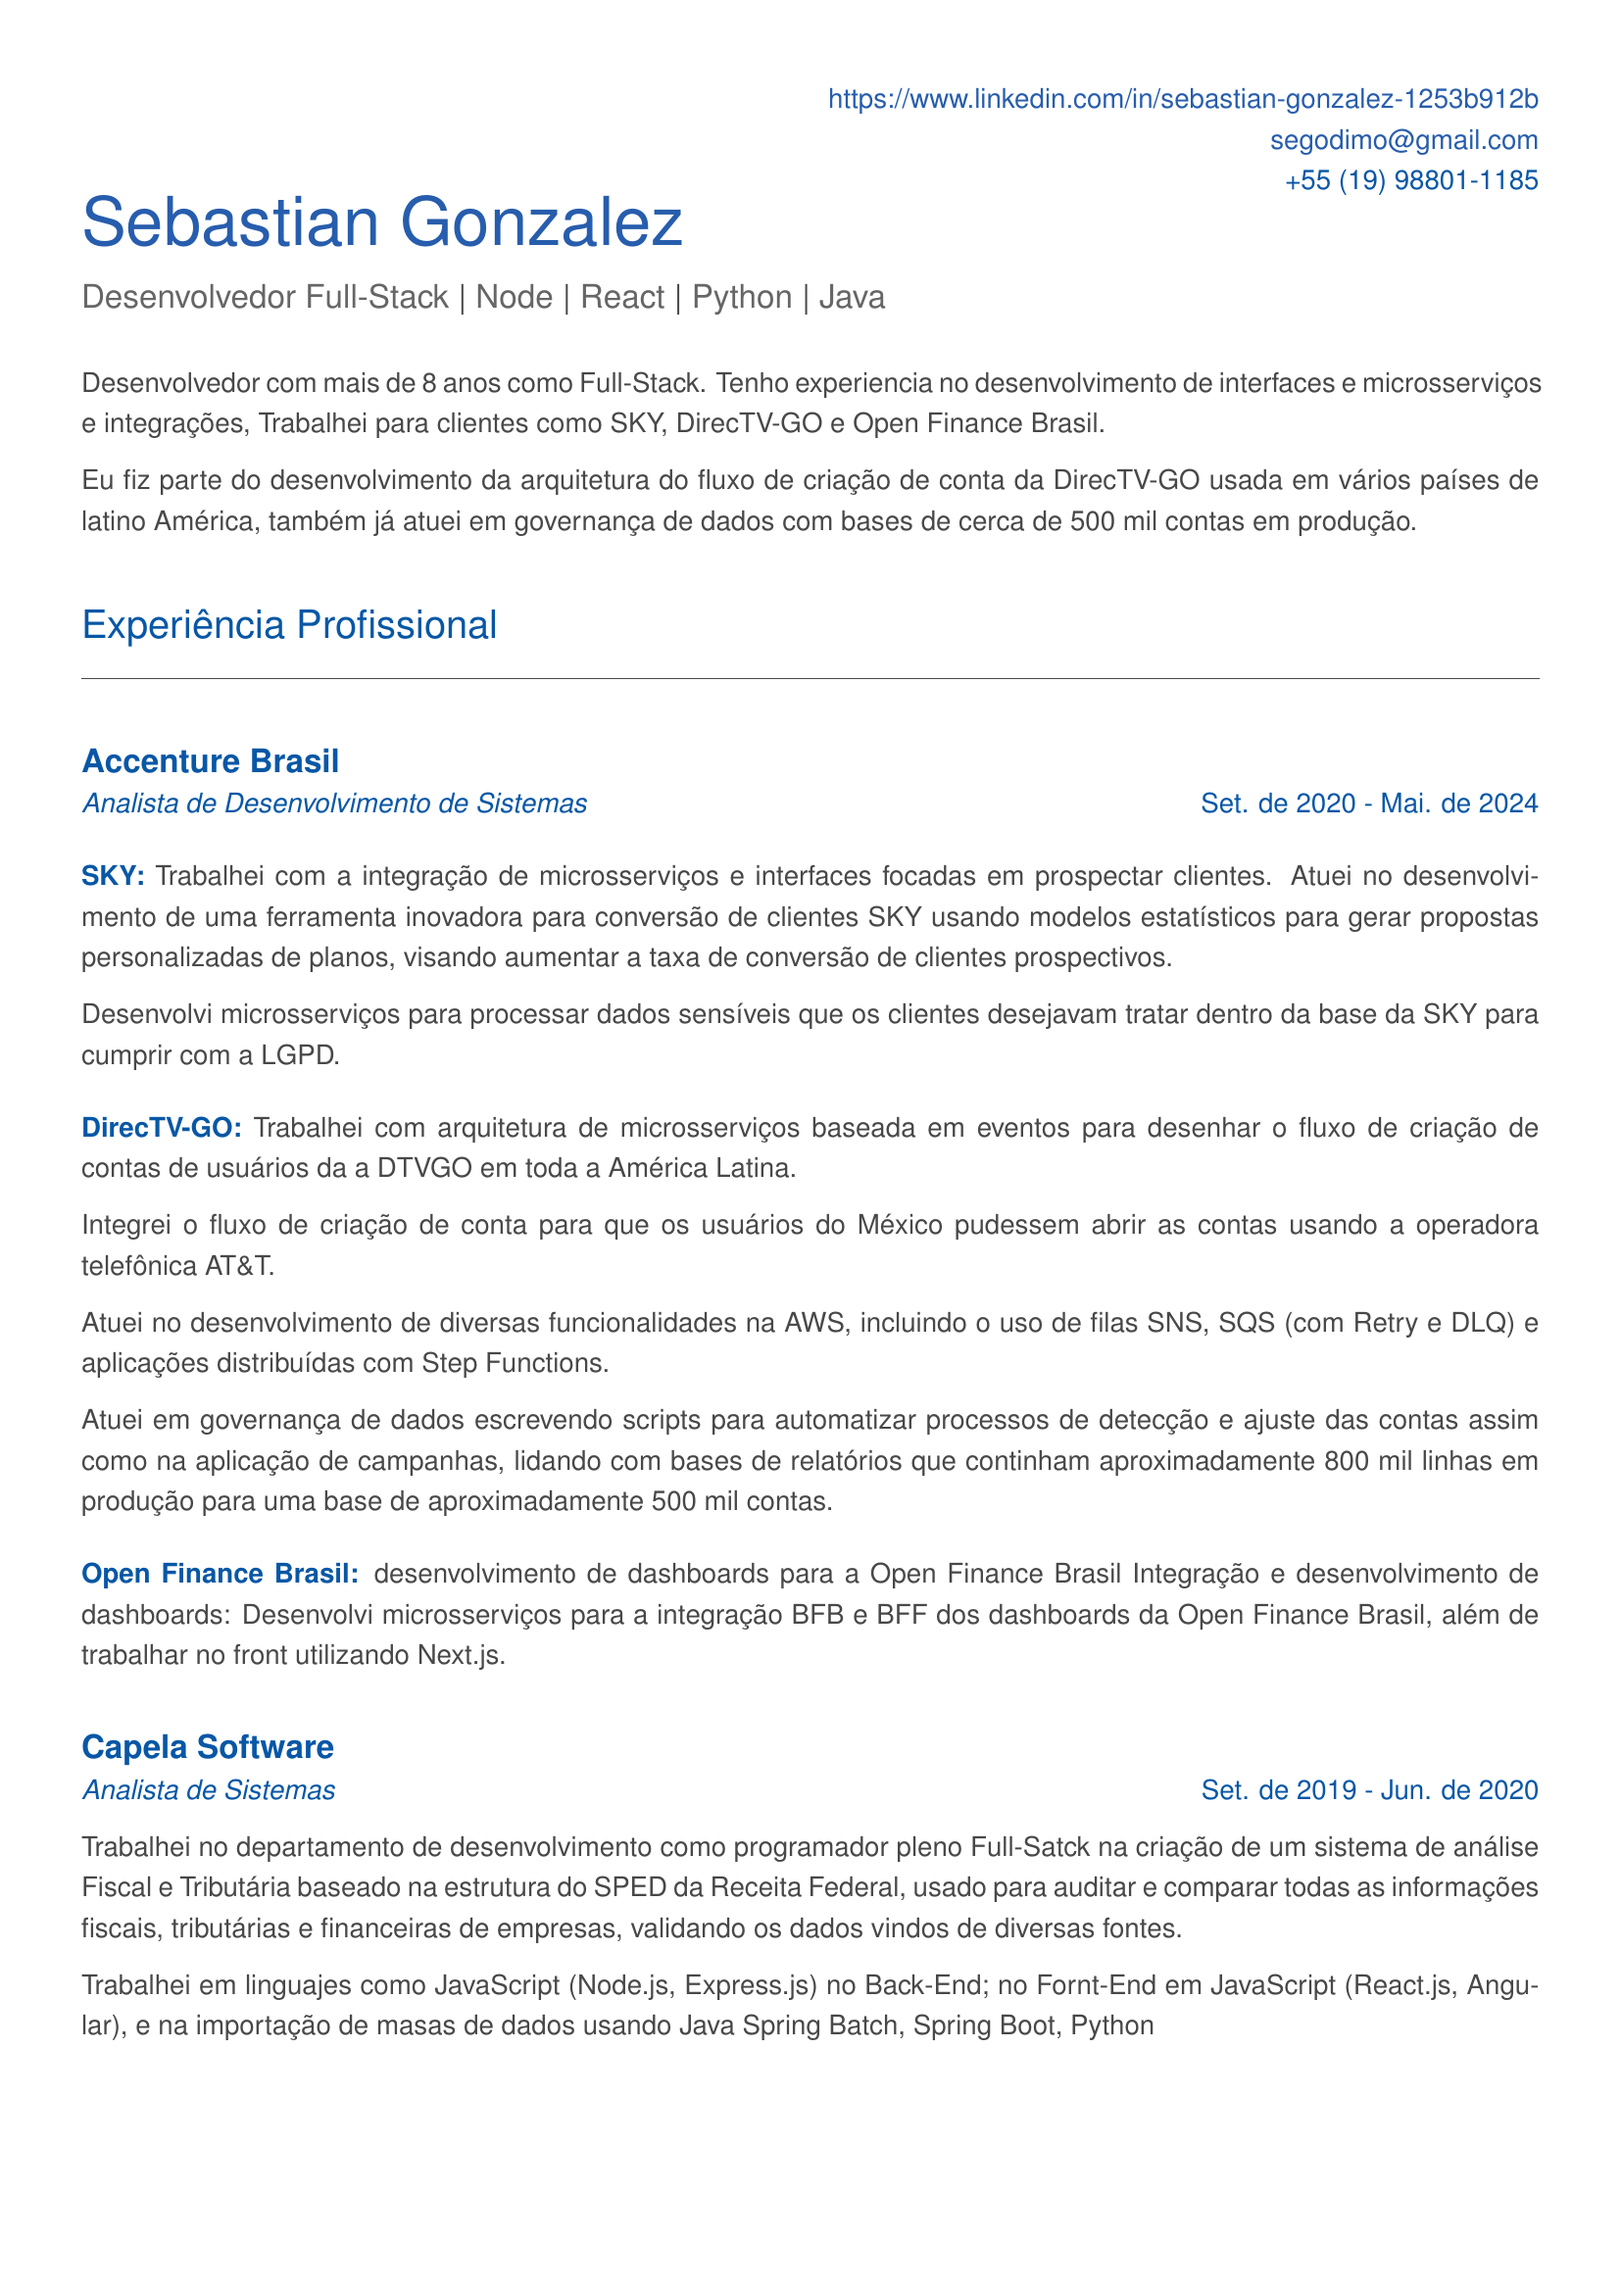
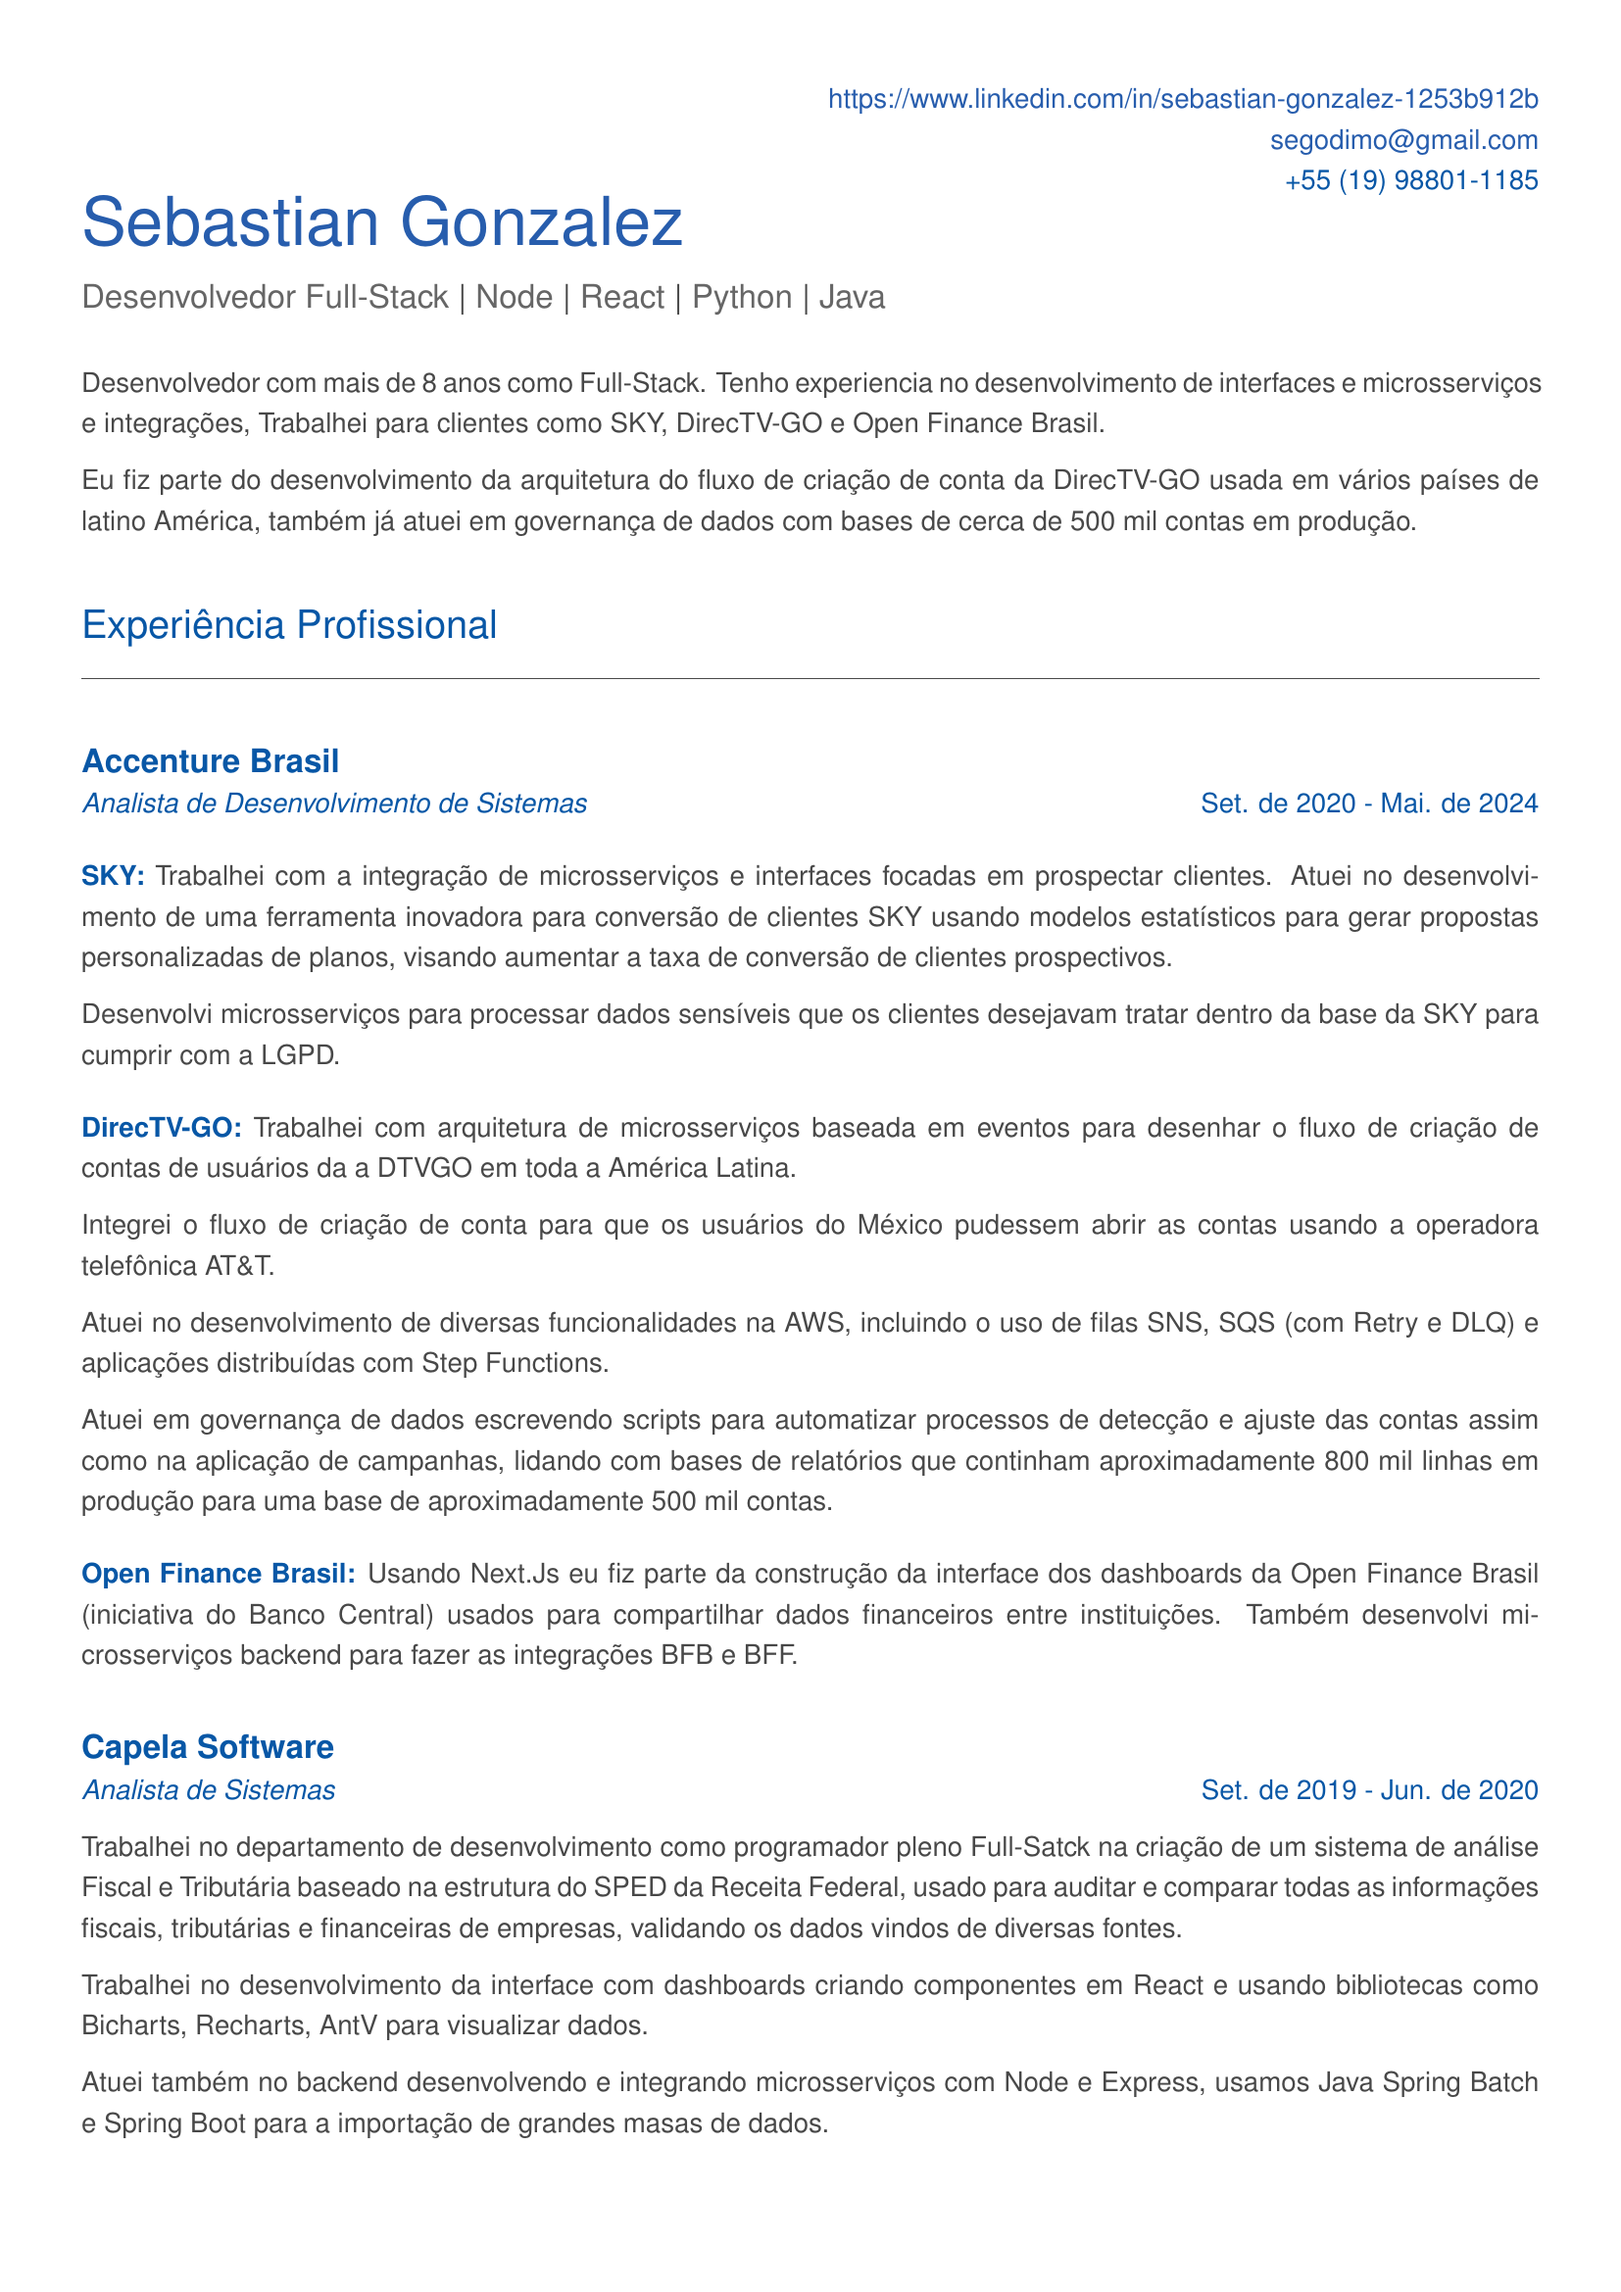
v0.0.2.1

diff --git a/doctxt.tex b/doctxt.tex
@@ -148,30 +148,53 @@ lidando com bases de relatórios que continham aproximadamente
 800 mil linhas em produção para uma base de aproximadamente 500 mil contas.
 
 \vspace{2mm} \textcolor{corSubSection}{\bfseries{Open Finance Brasil:}}
-desenvolvimento de dashboards para a Open Finance Brasil
-Integração e desenvolvimento de dashboards: Desenvolvi microsserviços para a integração BFB e BFF dos dashboards da Open Finance Brasil, além de trabalhar no front utilizando Next.js.
+Usando Next.Js eu fiz parte da construção da interface dos dashboards
+da Open Finance Brasil (iniciativa do Banco Central)
+usados para compartilhar dados financeiros entre instituições.
+Também desenvolvi microsserviços backend para fazer as integrações BFB e BFF.
 
 \subsection*{Capela Software}
 \textcolor{corSubSection}{\emph{Analista de Sistemas}}
 \hfill\textcolor{corSubSection}{Set. de 2019 - Jun. de 2020}
 
-Trabalhei no departamento de desenvolvimento como programador pleno Full-Satck na criação de um sistema de análise Fiscal e Tributária baseado na estrutura do SPED da Receita Federal, usado para auditar e comparar todas as informações fiscais, tributárias e financeiras de empresas, validando os dados vindos de diversas fontes.
+Trabalhei no departamento de desenvolvimento como programador pleno Full-Satck
+na criação de um sistema de análise Fiscal e Tributária
+baseado na estrutura do SPED da Receita Federal,
+usado para auditar e comparar todas as informações fiscais,
+tributárias e financeiras de empresas,
+validando os dados vindos de diversas fontes.
 
-Trabalhei em linguajes como JavaScript (Node.js, Express.js) no Back-End; no Fornt-End em JavaScript (React.js, Angular), e na importação de masas de dados usando Java Spring Batch, Spring Boot, Python
+Trabalhei no desenvolvimento da interface com dashboards
+criando componentes em React e usando bibliotecas como
+Bicharts, Recharts, AntV para visualizar dados.
+
+Atuei também no backend desenvolvendo e integrando microsserviços com Node e Express,
+usamos Java Spring Batch e Spring Boot para a importação de grandes masas de dados.
 
 \clearpage
+%================================================================
 
 \subsection*{Requestia}
 \textcolor{corSubSection}{\emph{Programador Full Stack}}
 \hfill \textcolor{corSubSection}{Abr. de 2018 - Mar. de 2019}
 
-Trabalhei como desenvolvedor web no departamento de marketing em conjunto com o departamento de desenvolvimento, onde criávamos microsserviços focados ao marketing e também na automação de campanhas de marketing. Fiz treinamentos e cursos sobre ITSM(ITIL), trabalhei também com Centro de serviços Compartilhados, Notificação e escalamento baseados em SLA's.
+Trabalhei como desenvolvedor no departamento de marketing
+em conjunto com o departamento de desenvolvimento;
+trabalhei com microsserviços focados ao marketing
+e também na automação de campanhas.
+
+Fiz treinamentos e cursos sobre ITSM(ITIL),
+trabalhei também com Centro de serviços Compartilhados,
+Notificação e escalamento baseados em SLA's.
 
 \subsection*{REC Produçoes Interativas}
 \textcolor{corSubSection}{\emph{Programador Full Stack}}
 \hfill \textcolor{corSubSection}{Set. de 2015 - Abr. de 2018}
 
-Programador no desenvolvimento de sites como "Rec Soluções Interativas", "Posclique", "Soy Cho", "Rabbit Studio", "Amálgama", "Villa Karry", "Bússola Interna", "Obsucra Store" e "Interface Dropbox" entre outros, \href{https://www.youtube.com/watch?v=V_ahsuHgIoE}{segue aqui um reel de alguns projetos}.
+Programador no desenvolvimento de sites como "Rec Soluções Interativas",
+"Posclique", "Soy Cho", "Rabbit Studio", "Amálgama", "Villa Karry",
+"Bússola Interna", "Obsucra Store" e "Interface Dropbox" entre outros,
+\href{https://www.youtube.com/watch?v=V_ahsuHgIoE}{segue aqui um reel de alguns projetos}.
 
 %\subsection*{Art MX}
 %\textcolor{corSubSection}{\emph{Programador Full Stack}}
@@ -179,15 +202,41 @@ Programador no desenvolvimento de sites como "Rec Soluções Interativas", "Posc
 %
 %Programador de sites como "UAI Brasil", "http://itacolomi.siteimobiliario.net/", "https://www.canaldoserralheiro.com.br/" entre outros
 
-%====================================================================================================
+
 \section*{Skills}
 \noindent\makebox[\linewidth]{\rule{\linewidth}{0.1mm}\textcolor{corLarge}{}}
 
-\textcolor{corSubSection}{Arquitetura de microsserviços:}
-APIs REST, Clean Code, SOLID, Design Patterns, Design de Módulos, Testabilidade, lambda serverless ou kubernets na AWS; Conhecimentos em modelo arquitetural port and adapters e conceito hexagonal.
+\textcolor{corSubSection}{Arquitetura:}
+Clean Code, SOLID, Design Patterns,
+Arquitetura de microsserviços, APIs REST,
+Design de Módulos, Testabilidade,
+lambda serverless ou kubernets na AWS;
+Conhecimentos em modelo arquitetural port and adapters e conceito hexagonal.
 
 \textcolor{corSubSection}{Javascript:}
-Node.js, Babel, Hapi, Express, Stack MEAN, MERN: Angular, React, Vue, estados como Redux (Saga, Thunk), Hooks, RealmDB, TypeScript, Webpack.
+TypeScript, Node, Express, Hapi,
+Stack MERN, MEAN (React, Angular),
+control de estados como Redux (Saga, Thunk), Hooks,
+Babel, Webpack.
+
+\textcolor{corSubSection}{Cloud services:}
+aplicações distribuídas com Step Functions, Desenvolvimento de arquiteturas e fluxos na AWS usando filas SNS, SQS, (Retry e DLQ)
+
+\textcolor{corSubSection}{CI/CD/DevOps tools:}
+Pipelines em Jenkins, Controle de Versão GIT (Bitbucket, GitHub, GitLab).
+
+\textcolor{corSubSection}{Bancos de Dados:}
+SQL relacionais como
+MySQL, PostgreSQL, DynamoDB, e SQLite;
+NoSQL como
+MongoDB, Redis;
+ORM como
+
+\textcolor{corSubSection}{Testes unitários:}
+javaScript com TDD e BDD usando Mocha, Chai, e Sinon, Jest; Jasmine, JUnit, Spring Test, Mockito, Cobertura, Jacoco e Codecov, SonarQubem; automação de teste, Selenium, Postman
+
+\textcolor{corSubSection}{Containerização e Orquestração:}
+Ambientes isolados no Docker, Experiência com Containerização e Orquestração, Virtualizar servidores e deploy em contenedores Docker na AWS,
 
 \textcolor{corSubSection}{Python:}
 Pandas, APIs Django | Flask, Scraping e Crawling com Beautifulsoup, automação de request via API, Scrapy e Selenium, Processamento de linguagem natural (PNL) com spaCy, UI com Tkintee, ORM, SQLAlchemy, Pymongo,
@@ -195,30 +244,17 @@ Pandas, APIs Django | Flask, Scraping e Crawling com Beautifulsoup, automação 
 \textcolor{corSubSection}{Java:}
 Spring Boot, desenvolvimento de microsserviços, APIs REST e aplicações web, stack MEAN com Angular, MEVN com Vue.js, injeção de Dependência, integração e manipulação de dados utilizando JPA, Hibernate, Build e Gerenciamento de Dependências, Maven, Gradle
 
-\textcolor{corSubSection}{Bancos de Dados:}
-Banco de sistemas de dados relacionais como MySQL, PostgreSQL, SQLite e, DynamoDB, NoSQL usando MongoDB, Redis; ORM
-
 \textcolor{corSubSection}{Spring Batch:}
 jobs, steps, readers, writers, processors, listeners, e fluxos de processamento em lote, particionamento, chunk processing, agendamento de tarefas, retry policies, e controle de transações. injeção de dependência, integração com Spring Boot, ORM (Hibernate, JPA)
-
-\textcolor{corSubSection}{CI/CD/DevOps tools:}
-Pipelines em Jenkins, Controle de Versão GIT (Bitbucket, GitHub, GitLab).
-
-\textcolor{corSubSection}{Cloud services:}
-aplicações distribuídas com Step Functions, Desenvolvimento de arquiteturas e fluxos na AWS usando filas SNS, SQS, (Retry e DLQ)
-
-\textcolor{corSubSection}{Containerização e Orquestração:}
-Ambientes isolados no Docker, Experiência com Containerização e Orquestração, Virtualizar servidores e deploy em contenedores Docker na AWS,
-
-\textcolor{corSubSection}{Testes unitários:}
-javaScript com TDD e BDD usando Mocha, Chai, e Sinon, Jest; Jasmine, JUnit, Spring Test, Mockito, Cobertura, Jacoco e Codecov, SonarQubem; automação de teste, Selenium, Postman
 
 \textcolor{corSubSection}{Metodologia ágeis:}
 Experiência trabalhando na metodologia Scrum, Kanban, plataformas ágeis como Jira, Requestia
 
 %\textcolor{corSubSection}{Desenvolvimento Android:} Android SDK, Kotlin, Java, Android Jetpack Arquiteturas MVVM e MVC
 
-%====================================================================================================
+%================================================================
+\clearpage
+
 \section*{Formação Acadêmica}
 \noindent\makebox[\linewidth]{\rule{\linewidth}{0.1mm}\textcolor{corLarge}{}}
 
